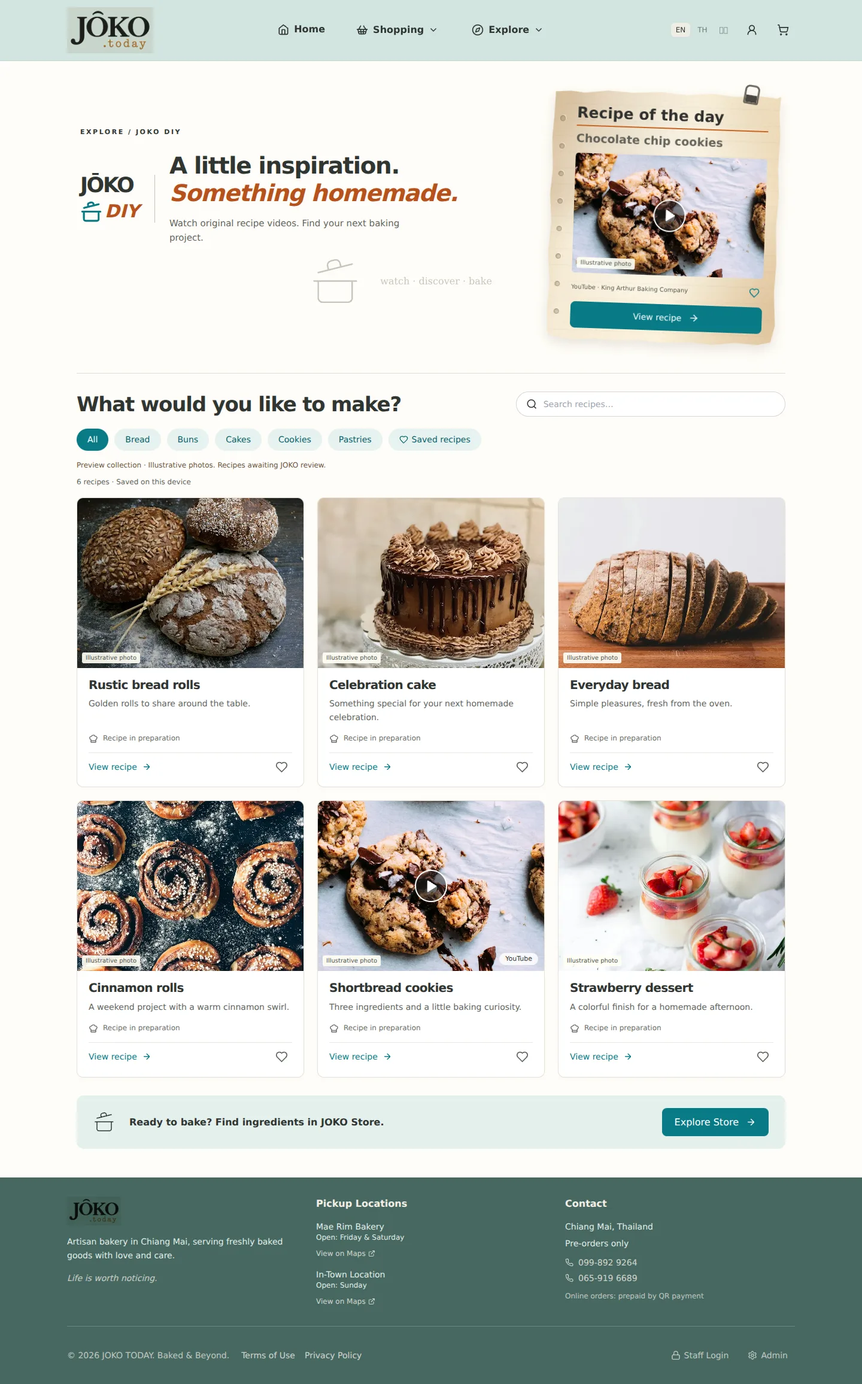
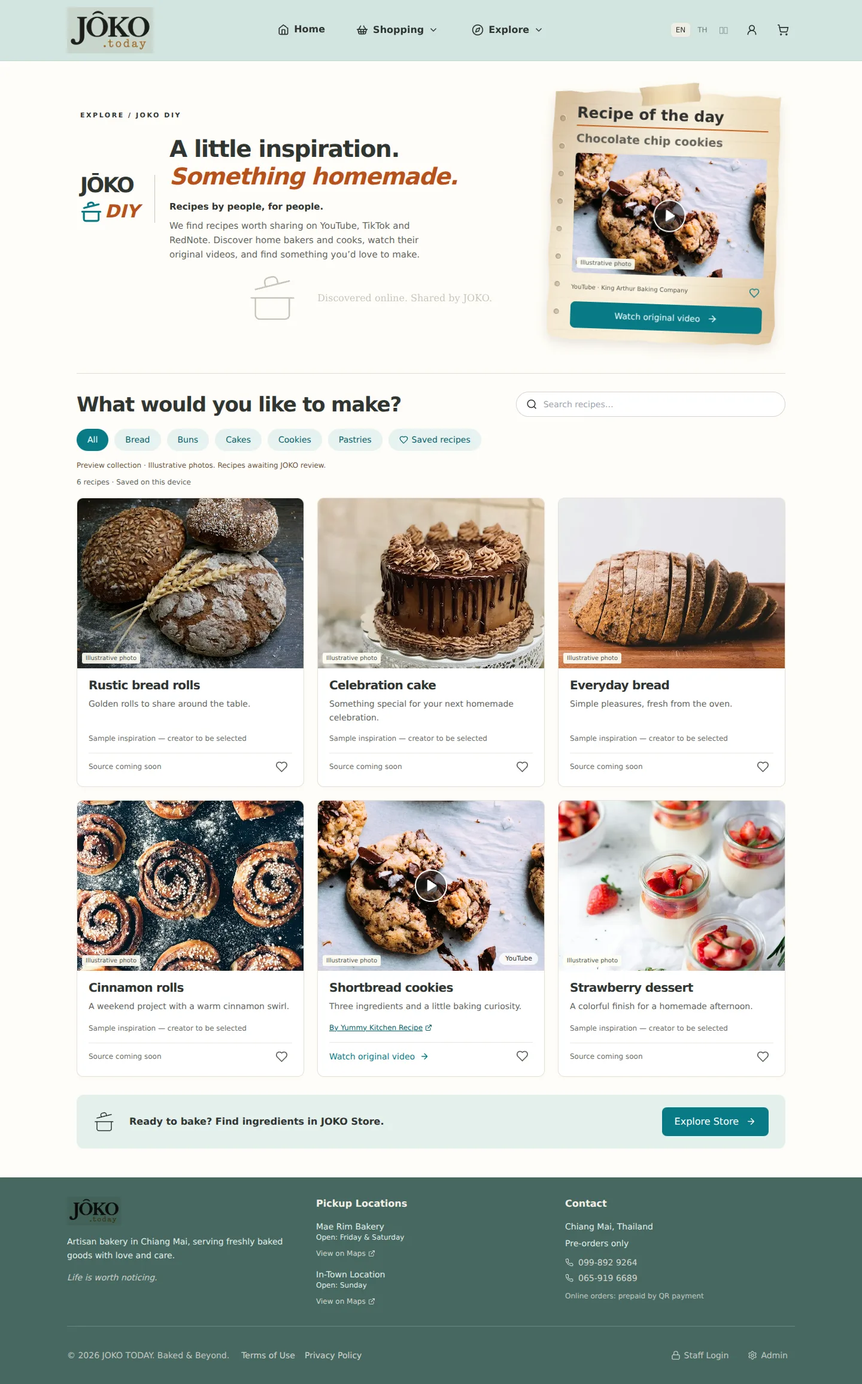
Focus DIY on creator videos and restore homepage notebook tape

diff --git a/src/app/joko-today/diy/copy.ts b/src/app/joko-today/diy/copy.ts
@@ -1,11 +1,11 @@
 export const diyCopy = {
   en: {
-    photo: 'Illustrative photo', eyebrow: 'EXPLORE / JOKO DIY', headline: 'A little inspiration.', homemade: 'Something homemade.', intro: 'Watch original recipe videos. Find your next baking project.', featured: 'Recipe of the day', browse: 'What would you like to make?', search: 'Search recipes…', all: 'All', bread: 'Bread', buns: 'Buns', cakes: 'Cakes', cookies: 'Cookies', pastries: 'Pastries', saved: 'Saved recipes', save: 'Save recipe', unsave: 'Remove saved recipe', view: 'View recipe', preview: 'Preview collection · Illustrative photos. Recipes awaiting JOKO review.', pending: 'Recipe in preparation', original: 'Watch original video', source: 'Original video', draft: 'Recipe draft', review: 'This draft has not been approved or kitchen-tested. Check the creator’s original instructions before baking.', waiting: 'We’re preparing this recipe card. Ingredients, method and timings will appear after editorial review.', ingredients: 'Ingredients', missing: 'Not specified / awaiting review', close: 'Back to recipes', empty: 'No recipes found. Try another search or category.', reset: 'Clear filters', count: 'recipes', store: 'Ready to bake? Find ingredients in JOKO Store.', storeLink: 'Explore Store', local: 'Saved on this device', storageError: 'Your browser could not save this choice. It will remain available for this visit.', english: 'Recipe preview content is currently in English.', creator: 'Creator’s original', load: 'Load original YouTube video', privacy: 'Loading the video connects to YouTube. You can also open the original directly.', time: 'Time', yield: 'Yield', method: 'Method',
+    community: 'Recipes by people, for people.', curated: 'Discovered online. Shared by JOKO.', by: 'By', sourcePending: 'Source coming soon', photo: 'Illustrative photo', eyebrow: 'EXPLORE / JOKO DIY', headline: 'A little inspiration.', homemade: 'Something homemade.', intro: 'We find recipes worth sharing on YouTube, TikTok and RedNote. Discover home bakers and cooks, watch their original videos, and find something you’d love to make.', featured: 'Recipe of the day', browse: 'What would you like to make?', search: 'Search recipes…', all: 'All', bread: 'Bread', buns: 'Buns', cakes: 'Cakes', cookies: 'Cookies', pastries: 'Pastries', saved: 'Saved recipes', save: 'Save recipe', unsave: 'Remove saved recipe', view: 'Watch original video', preview: 'Preview collection · Illustrative photos. Recipes awaiting JOKO review.', pending: 'Sample inspiration — creator to be selected', original: 'Watch original video', source: 'Original video', draft: 'Recipe draft', review: 'This draft has not been approved or kitchen-tested. Check the creator’s original instructions before baking.', waiting: 'We’re preparing this recipe card. Ingredients, method and timings will appear after editorial review.', ingredients: 'Ingredients', missing: 'Not specified / awaiting review', close: 'Back to recipes', empty: 'No recipes found. Try another search or category.', reset: 'Clear filters', count: 'recipes', store: 'Ready to bake? Find ingredients in JOKO Store.', storeLink: 'Explore Store', local: 'Saved on this device', storageError: 'Your browser could not save this choice. It will remain available for this visit.', english: 'Recipe preview content is currently in English.', creator: 'Creator’s original', load: 'Load original YouTube video', privacy: 'Loading the video connects to YouTube. You can also open the original directly.', time: 'Time', yield: 'Yield', method: 'Method',
   },
   th: {
-    photo: 'ภาพประกอบ', eyebrow: 'สำรวจ / JOKO DIY', headline: 'แรงบันดาลใจเล็ก ๆ', homemade: 'ลงมือทำเองที่บ้าน', intro: 'ชมวิดีโอสูตรต้นฉบับ แล้วค้นหาไอเดียอบขนมครั้งต่อไป', featured: 'สูตรแนะนำวันนี้', browse: 'วันนี้อยากทำอะไรดี?', search: 'ค้นหาสูตร…', all: 'ทั้งหมด', bread: 'ขนมปัง', buns: 'ขนมปังก้อน', cakes: 'เค้ก', cookies: 'คุกกี้', pastries: 'เพสตรี้', saved: 'สูตรที่บันทึก', save: 'บันทึกสูตร', unsave: 'ยกเลิกบันทึกสูตร', view: 'ดูสูตร', preview: 'คอลเลกชันตัวอย่าง · ภาพประกอบ สูตรอยู่ระหว่างตรวจทานโดย JOKO', pending: 'กำลังเตรียมสูตร', original: 'ชมวิดีโอต้นฉบับ', source: 'วิดีโอต้นฉบับ', draft: 'ฉบับร่าง', review: 'สูตรร่างนี้ยังไม่ได้รับการอนุมัติหรือทดลองทำ โปรดตรวจสอบวิธีทำต้นฉบับก่อนลงมือ', waiting: 'เรากำลังเตรียมการ์ดสูตร ส่วนผสม วิธีทำ และเวลาจะแสดงหลังตรวจทาน', ingredients: 'ส่วนผสม', missing: 'ยังไม่ระบุ / รอตรวจทาน', close: 'กลับไปดูสูตร', empty: 'ไม่พบสูตร ลองคำค้นหรือหมวดอื่น', reset: 'ล้างตัวกรอง', count: 'สูตร', store: 'พร้อมอบแล้ว? ค้นหาวัตถุดิบที่ JOKO Store', storeLink: 'ไปที่ Store', local: 'บันทึกไว้บนอุปกรณ์นี้', storageError: 'เบราว์เซอร์ไม่สามารถบันทึกได้ ตัวเลือกนี้จะใช้ได้ระหว่างการเข้าชมครั้งนี้', english: 'เนื้อหาสูตรตัวอย่างเป็นภาษาอังกฤษในขณะนี้', creator: 'ต้นฉบับของผู้สร้าง', load: 'โหลดวิดีโอ YouTube ต้นฉบับ', privacy: 'การโหลดวิดีโอจะเชื่อมต่อกับ YouTube หรือเปิดต้นฉบับโดยตรงได้', time: 'เวลา', yield: 'จำนวนที่ได้', method: 'วิธีทำ',
+    community: 'สูตรจากผู้คน แบ่งปันให้ทุกคน', curated: 'ค้นพบออนไลน์ แบ่งปันโดย JOKO', by: 'โดย', sourcePending: 'กำลังคัดเลือกต้นฉบับ', photo: 'ภาพประกอบ', eyebrow: 'สำรวจ / JOKO DIY', headline: 'แรงบันดาลใจเล็ก ๆ', homemade: 'ลงมือทำเองที่บ้าน', intro: 'เราคัดสรรสูตรน่าแบ่งปันจาก YouTube, TikTok และ RedNote มาทำความรู้จักคนทำขนมและอาหาร ชมวิดีโอต้นฉบับของพวกเขา แล้วหาเมนูที่คุณอยากลองทำ', featured: 'สูตรแนะนำวันนี้', browse: 'วันนี้อยากทำอะไรดี?', search: 'ค้นหาสูตร…', all: 'ทั้งหมด', bread: 'ขนมปัง', buns: 'ขนมปังก้อน', cakes: 'เค้ก', cookies: 'คุกกี้', pastries: 'เพสตรี้', saved: 'สูตรที่บันทึก', save: 'บันทึกสูตร', unsave: 'ยกเลิกบันทึกสูตร', view: 'ชมวิดีโอต้นฉบับ', preview: 'คอลเลกชันตัวอย่าง · ภาพประกอบ สูตรอยู่ระหว่างตรวจทานโดย JOKO', pending: 'ตัวอย่างไอเดีย — กำลังคัดเลือกผู้สร้าง', original: 'ชมวิดีโอต้นฉบับ', source: 'วิดีโอต้นฉบับ', draft: 'ฉบับร่าง', review: 'สูตรร่างนี้ยังไม่ได้รับการอนุมัติหรือทดลองทำ โปรดตรวจสอบวิธีทำต้นฉบับก่อนลงมือ', waiting: 'เรากำลังเตรียมการ์ดสูตร ส่วนผสม วิธีทำ และเวลาจะแสดงหลังตรวจทาน', ingredients: 'ส่วนผสม', missing: 'ยังไม่ระบุ / รอตรวจทาน', close: 'กลับไปดูสูตร', empty: 'ไม่พบสูตร ลองคำค้นหรือหมวดอื่น', reset: 'ล้างตัวกรอง', count: 'สูตร', store: 'พร้อมอบแล้ว? ค้นหาวัตถุดิบที่ JOKO Store', storeLink: 'ไปที่ Store', local: 'บันทึกไว้บนอุปกรณ์นี้', storageError: 'เบราว์เซอร์ไม่สามารถบันทึกได้ ตัวเลือกนี้จะใช้ได้ระหว่างการเข้าชมครั้งนี้', english: 'เนื้อหาสูตรตัวอย่างเป็นภาษาอังกฤษในขณะนี้', creator: 'ต้นฉบับของผู้สร้าง', load: 'โหลดวิดีโอ YouTube ต้นฉบับ', privacy: 'การโหลดวิดีโอจะเชื่อมต่อกับ YouTube หรือเปิดต้นฉบับโดยตรงได้', time: 'เวลา', yield: 'จำนวนที่ได้', method: 'วิธีทำ',
   },
   zh: {
-    photo: '示意图片', eyebrow: '探索 / JOKO DIY', headline: '一点灵感，', homemade: '亲手制作。', intro: '观看原创食谱视频，寻找下一次烘焙的灵感。', featured: '今日推荐食谱', browse: '今天想做什么？', search: '搜索食谱…', all: '全部', bread: '面包', buns: '小餐包', cakes: '蛋糕', cookies: '饼干', pastries: '酥点', saved: '已收藏食谱', save: '收藏食谱', unsave: '取消收藏', view: '查看食谱', preview: '预览合集 · 图片仅供示意，食谱待 JOKO 审核。', pending: '食谱准备中', original: '观看原视频', source: '原视频', draft: '食谱草稿', review: '此草稿尚未审核或试做。烘焙前请查阅创作者的原始说明。', waiting: '食谱卡正在准备中。审核后将提供配料、步骤和时间。', ingredients: '配料', missing: '未注明 / 待审核', close: '返回食谱', empty: '未找到食谱，请尝试其他关键词或分类。', reset: '清除筛选', count: '个食谱', store: '准备烘焙？到 JOKO Store 寻找原料。', storeLink: '浏览 Store', local: '保存在此设备上', storageError: '浏览器无法保存此选择，本次访问期间仍可使用。', english: '食谱预览内容目前仅提供英文。', creator: '创作者原作', load: '加载 YouTube 原视频', privacy: '加载视频会连接到 YouTube，也可直接打开原视频。', time: '时间', yield: '份量', method: '步骤',
+    community: '来自大家的食谱，分享给每个人。', curated: '发现于网络，由 JOKO 分享。', by: '创作者：', sourcePending: '原作待选', photo: '示意图片', eyebrow: '探索 / JOKO DIY', headline: '一点灵感，', homemade: '亲手制作。', intro: '我们从 YouTube、TikTok 和小红书寻找值得分享的食谱。认识热爱烘焙和烹饪的创作者，观看他们的原视频，找到你想亲手尝试的美味。', featured: '今日推荐食谱', browse: '今天想做什么？', search: '搜索食谱…', all: '全部', bread: '面包', buns: '小餐包', cakes: '蛋糕', cookies: '饼干', pastries: '酥点', saved: '已收藏食谱', save: '收藏食谱', unsave: '取消收藏', view: '观看原视频', preview: '预览合集 · 图片仅供示意，食谱待 JOKO 审核。', pending: '示例灵感 — 创作者待选', original: '观看原视频', source: '原视频', draft: '食谱草稿', review: '此草稿尚未审核或试做。烘焙前请查阅创作者的原始说明。', waiting: '食谱卡正在准备中。审核后将提供配料、步骤和时间。', ingredients: '配料', missing: '未注明 / 待审核', close: '返回食谱', empty: '未找到食谱，请尝试其他关键词或分类。', reset: '清除筛选', count: '个食谱', store: '准备烘焙？到 JOKO Store 寻找原料。', storeLink: '浏览 Store', local: '保存在此设备上', storageError: '浏览器无法保存此选择，本次访问期间仍可使用。', english: '食谱预览内容目前仅提供英文。', creator: '创作者原作', load: '加载 YouTube 原视频', privacy: '加载视频会连接到 YouTube，也可直接打开原视频。', time: '时间', yield: '份量', method: '步骤',
   },
 } as const;

diff --git a/src/app/joko-today/diy/DiyPage.tsx b/src/app/joko-today/diy/DiyPage.tsx
@@ -1,5 +1,5 @@
 import { useEffect, useRef, useState } from 'react';
-import { ArrowRight, ChefHat, CookingPot, ExternalLink, Heart, Play, Search, X } from 'lucide-react';
+import { ArrowRight, CookingPot, ExternalLink, Heart, Play, Search, X } from 'lucide-react';
 import { useLanguage } from '../../../context/LanguageContext';
 import { JokoHeroNotebookNote } from '../../../components/JokoHeroNotebookNote';
 import { diyCopy } from './copy';
@@ -15,10 +15,10 @@ function readSaved(): string[] {
   } catch { return []; }
 }
 function selectedFromUrl() {
-  return diyRecipes.find(recipe => recipe.id === new URLSearchParams(window.location.search).get('recipe')) ?? null;
+  return diyRecipes.find(recipe => recipe.source && recipe.id === new URLSearchParams(window.location.search).get('recipe')) ?? null;
 }
 
-function RecipeDetail({ recipe, onClose }: { recipe: DiyRecipe; onClose: () => void }) {
+function CreatorVideo({ recipe, onClose }: { recipe: DiyRecipe; onClose: () => void }) {
   const { language } = useLanguage();
   const text = diyCopy[language];
   const dialog = useRef<HTMLDialogElement>(null);
@@ -34,9 +34,8 @@ function RecipeDetail({ recipe, onClose }: { recipe: DiyRecipe; onClose: () => v
     onCancel={event => { event.preventDefault(); onClose(); }}>
     <div className="diy-detail__inner">
       <button type="button" className="diy-back" onClick={onClose}><X size={18} />{text.close}</button>
-      <p className="diy-eyebrow">JOKO DIY · {text.draft}</p>
+      <p className="diy-eyebrow">JOKO DIY · {text.source}</p>
       <h2 id="diy-detail-title" lang="en">{recipe.title}</h2>
-      <p className="diy-review">{text.review}</p>
       {recipe.source ? <>
         <p className="diy-source">{text.source} · <a href={recipe.source.url} target="_blank" rel="noopener noreferrer">{recipe.source.creator} <ExternalLink size={14} /></a></p>
         <div className="diy-player">{videoLoaded
@@ -44,14 +43,6 @@ function RecipeDetail({ recipe, onClose }: { recipe: DiyRecipe; onClose: () => v
           : <button type="button" onClick={() => setVideoLoaded(true)} aria-label={text.load}><img src={recipe.image} alt="" /><span className="diy-play"><Play fill="currentColor" /></span><span className="diy-player-label">{text.load}</span></button>}</div>
         <p className="diy-fine">{text.privacy} <a href={recipe.source.url} target="_blank" rel="noopener noreferrer">{text.creator} ↗</a></p>
       </> : <img className="diy-detail-photo" src={recipe.image} alt={recipe.title} />}
-      {language !== 'en' && <p className="diy-fine">{text.english}</p>}
-      <section className="diy-recipe-content">
-        <h3>{text.ingredients}</h3>
-        {recipe.ingredients ? <ul lang="en">{recipe.ingredients.map(ingredient => <li key={ingredient}><label><input type="checkbox" />{ingredient}</label></li>)}</ul> : <p>{text.waiting}</p>}
-        {recipe.sourceNote && <p className="diy-fine" lang="en">{recipe.sourceNote}</p>}
-        <dl><div><dt>{text.time}</dt><dd>{text.missing}</dd></div><div><dt>{text.yield}</dt><dd>{text.missing}</dd></div></dl>
-        <h3>{text.method}</h3><p>{text.waiting}</p>
-      </section>
     </div>
   </dialog>;
 }
@@ -73,6 +64,7 @@ export default function DiyPage({ onNavigate }: { onNavigate: (page: string) => 
     return () => { window.removeEventListener('popstate', sync); window.removeEventListener('storage', syncSaved); };
   }, []);
   function openRecipe(recipe: DiyRecipe) {
+    if (!recipe.source) return;
     const url = new URL(window.location.href);
     url.searchParams.set('recipe', recipe.id);
     window.history.pushState({ diyRecipe: true }, '', `${url.pathname}${url.search}${url.hash}`);
@@ -102,14 +94,14 @@ export default function DiyPage({ onNavigate }: { onNavigate: (page: string) => 
         <div className="diy-intro">
           <p className="diy-eyebrow">{text.eyebrow}</p>
           <div className="diy-intro-line"><div className="diy-wordmark" aria-label="JOKO DIY"><span>JŌKO</span><span><CookingPot aria-hidden="true" /> DIY</span></div>
-          <div><h1 id="diy-title">{text.headline}<br /><em>{text.homemade}</em></h1><p>{text.intro}</p></div></div>
-          <div className="diy-hero-flourish" aria-hidden="true"><CookingPot strokeWidth={0.7} /><span>watch · discover · bake</span></div>
+          <div><h1 id="diy-title">{text.headline}<br /><em>{text.homemade}</em></h1><p className="diy-community-tagline">{text.community}</p><p>{text.intro}</p></div></div>
+          <div className="diy-hero-flourish" aria-hidden="true"><CookingPot strokeWidth={0.7} /><span>{text.curated}</span></div>
         </div>
         <aside className="diy-feature" aria-label={text.featured}>
           <JokoHeroNotebookNote title={text.featured} body={featured.title} rotation={2}>
             <button className="diy-feature-photo" type="button" onClick={() => openRecipe(featured)} aria-label={`${text.view}: ${featured.title}`}><img src={featured.image} alt={featured.title} fetchPriority="high" /><span className="diy-play"><Play fill="currentColor" /></span><span className="diy-photo-label">{text.photo}</span></button>
-            <div className="diy-feature-credit"><span>YouTube · {featured.source?.creator}</span><button type="button" className="diy-feature-save" aria-pressed={saved.includes(featured.id)} aria-label={`${saved.includes(featured.id) ? text.unsave : text.save}: ${featured.title}`} onClick={() => toggleSaved(featured.id)}><Heart size={18} fill={saved.includes(featured.id) ? 'currentColor' : 'none'} /></button></div>
-            <button className="diy-button" type="button" onClick={() => openRecipe(featured)}>{text.view}<ArrowRight size={17} /></button>
+            <div className="diy-feature-credit"><span>{featured.source?.platform} · {featured.source?.creator}</span><button type="button" className="diy-feature-save" aria-pressed={saved.includes(featured.id)} aria-label={`${saved.includes(featured.id) ? text.unsave : text.save}: ${featured.title}`} onClick={() => toggleSaved(featured.id)}><Heart size={18} fill={saved.includes(featured.id) ? 'currentColor' : 'none'} /></button></div>
+            <button className="diy-button" type="button" onClick={() => openRecipe(featured)}>{text.original}<ArrowRight size={17} /></button>
           </JokoHeroNotebookNote>
         </aside>
       </section>
@@ -119,13 +111,13 @@ export default function DiyPage({ onNavigate }: { onNavigate: (page: string) => 
         <p className="diy-preview">{text.preview} {language !== 'en' && text.english}</p>
         <p className="diy-fine" role="status">{visible.length} {text.count} · {storageError ? text.storageError : text.local}</p>
         <div className="diy-grid">{visible.map(recipe => <article key={recipe.id} className="diy-card">
-          <button type="button" className="diy-card-photo" onClick={() => openRecipe(recipe)} aria-label={`${text.view}: ${recipe.title}`}><img src={recipe.image} alt={recipe.title} loading="lazy" width="800" height="600" /><span className="diy-photo-label">{text.photo}</span>{recipe.source && <><span className="diy-play"><Play fill="currentColor" /></span><span className="diy-platform">YouTube</span></>}</button>
-          <div className="diy-card-body"><h3 lang="en"><button type="button" onClick={() => openRecipe(recipe)}>{recipe.title}</button></h3><p lang="en">{recipe.description}</p><div className="diy-card-meta"><ChefHat size={16} />{text.pending}</div><div className="diy-card-actions"><button type="button" onClick={() => openRecipe(recipe)}>{text.view}<ArrowRight size={16} /></button><button type="button" className="diy-heart" aria-pressed={saved.includes(recipe.id)} aria-label={`${saved.includes(recipe.id) ? text.unsave : text.save}: ${recipe.title}`} onClick={() => toggleSaved(recipe.id)}><Heart size={21} fill={saved.includes(recipe.id) ? 'currentColor' : 'none'} /></button></div></div>
+          <button type="button" className="diy-card-photo" disabled={!recipe.source} onClick={() => openRecipe(recipe)} aria-label={`${text.view}: ${recipe.title}`}><img src={recipe.image} alt={recipe.title} loading="lazy" width="800" height="600" /><span className="diy-photo-label">{text.photo}</span>{recipe.source && <><span className="diy-play"><Play fill="currentColor" /></span><span className="diy-platform">{recipe.source.platform}</span></>}</button>
+          <div className="diy-card-body"><h3 lang="en"><button type="button" disabled={!recipe.source} onClick={() => openRecipe(recipe)}>{recipe.title}</button></h3><p lang="en">{recipe.description}</p><div className="diy-card-meta">{recipe.source ? <a href={recipe.source.url} target="_blank" rel="noopener noreferrer">{text.by} {recipe.source.creator} <ExternalLink size={12} /></a> : text.pending}</div><div className="diy-card-actions">{recipe.source ? <button type="button" onClick={() => openRecipe(recipe)}>{text.original}<ArrowRight size={16} /></button> : <span className="diy-pending">{text.sourcePending}</span>}<button type="button" className="diy-heart" aria-pressed={saved.includes(recipe.id)} aria-label={`${saved.includes(recipe.id) ? text.unsave : text.save}: ${recipe.title}`} onClick={() => toggleSaved(recipe.id)}><Heart size={21} fill={saved.includes(recipe.id) ? 'currentColor' : 'none'} /></button></div></div>
         </article>)}</div>
         {!visible.length && <div className="diy-empty"><p>{text.empty}</p><button className="diy-button" type="button" onClick={() => { setQuery(''); setCategory('all'); setSavedOnly(false); }}>{text.reset}</button></div>}
       </section>
       <aside className="diy-store"><CookingPot size={36} strokeWidth={1} aria-hidden="true" /><p>{text.store}</p><button className="diy-button" type="button" onClick={() => onNavigate('products-non-bakery')}>{text.storeLink}<ArrowRight size={17} /></button></aside>
     </div>
-    {selected && <RecipeDetail key={selected.id} recipe={selected} onClose={closeRecipe} />}
+    {selected && <CreatorVideo key={selected.id} recipe={selected} onClose={closeRecipe} />}
   </div>;
 }

diff --git a/src/app/joko-today/diy/diy.css b/src/app/joko-today/diy/diy.css
@@ -22,8 +22,6 @@
 .diy-feature .joko-hero-note { padding: 27px 23px 23px 42px; filter: drop-shadow(0 8px 10px #55452c25); }
 .diy-feature .joko-hero-note__content > p:first-child { font-family: 'Itim', 'Noto Sans Thai Looped', 'Noto Sans SC', sans-serif !important; font-size: 25px !important; border-bottom: 2px solid #c76624; padding-bottom: 7px; }
 .diy-feature .joko-hero-note__content > p:nth-child(2) { font: 600 19px/1.3 'Inter', 'Noto Sans Thai Looped', sans-serif !important; margin-bottom: 12px; }
-.diy-feature .joko-hero-note__tape { display: none; }
-.diy-feature .joko-hero-note::after { content: ''; position: absolute; z-index: 6; top: -15px; right: 40px; width: 25px; height: 32px; border: 3px solid #6b665d; border-radius: 8px 8px 3px 3px; box-shadow: inset 0 -12px #49463f; transform: rotate(8deg); }
 .diy-feature-photo { display: block; position: relative; width: 100%; padding: 0; border: 0; border-radius: 5px; overflow: hidden; }
 .diy-feature-photo img { display: block; aspect-ratio: 16/10; object-fit: cover; width: 100%; }
 .diy-play { position: absolute; display: grid; place-items: center; left: 50%; top: 50%; transform: translate(-50%,-50%); width: 54px; height: 54px; background: #2228; color: white; border: 2px solid white; border-radius: 50%; }
@@ -66,7 +64,6 @@
 .diy-detail__inner { padding: clamp(20px,4vw,42px); }
 .diy-back { display: inline-flex; align-items: center; gap: 8px; border: 0; background: none; color: var(--diy-teal); padding: 8px 0; margin-bottom: 20px; }
 .joko-home-shell .diy-detail h2 { font: 650 clamp(27px,4vw,37px)/1.2 'Inter', sans-serif; margin: 12px 0; }
-.diy-review { background: #fbefdb; padding: 12px 16px; border-radius: 8px; font-size: 13px; margin: 15px 0; }
 .diy-source { font-size: 13px; margin-bottom: 15px; }
 .diy-source a { color: var(--diy-teal); display: inline-flex; align-items: center; gap: 4px; text-decoration: underline; }
 .diy-player { aspect-ratio: 16/9; background: #233a37; position: relative; overflow: hidden; border-radius: 8px; }
@@ -76,12 +73,6 @@
 .diy-player-label { position: absolute; bottom: 16px; left: 0; right: 0; color: white; font-size: 14px; }
 .diy-detail-photo { max-height: 280px; object-fit: cover; width: 100%; border-radius: 8px; }
 .diy-detail .diy-fine a { color: var(--diy-teal); text-decoration: underline; }
-.diy-recipe-content h3 { font-size: 21px; margin: 24px 0 12px; }
-.diy-recipe-content li { padding: 10px 0; border-bottom: 1px solid #e9e4d9; list-style: none; }
-.diy-recipe-content label { display: flex; gap: 10px; align-items: center; }
-.diy-recipe-content input { accent-color: var(--diy-teal); width: 18px; height: 18px; }
-.diy-recipe-content dl { display: flex; flex-wrap: wrap; gap: 25px; margin-top: 25px; font-size: 14px; }
-.diy-recipe-content dt { font-weight: 600; }
 @media(max-width:1000px) { .diy-hero { gap: 25px; grid-template-columns: 1.25fr 1fr; } .diy-intro-line { display: block; } .diy-wordmark { border: 0; margin: 0 0 20px; padding: 0; } .diy-wordmark > span { display: inline-flex !important; margin: 0 8px 0 0 !important; } .diy-hero-flourish { display: none; } }
 @media(max-width:760px) { .diy-wrap { padding: 0 18px 30px; } .diy-hero { grid-template-columns: 1fr; padding: 30px 0 35px; gap: 35px; } .diy-intro-line { display: flex; } .diy-wordmark { display: none; } .diy-feature { justify-self: center; max-width: 390px; padding: 0 7px; } .diy-catalog-heading { flex-direction: column; align-items: stretch; gap: 16px; } .diy-search { width: 100%; } .diy-grid { grid-template-columns: repeat(2,minmax(0,1fr)); gap: 14px; } .diy-card-body { padding: 13px; } .diy-store { flex-wrap: wrap; gap: 12px; padding: 20px; } .diy-store > svg { display: none; } .diy-store .diy-button { width: 100%; } }
 @media(max-width:460px) { .diy-grid { grid-template-columns: 1fr; } .diy-filters { gap: 7px; } .diy-filters button { padding: 6px 13px; } .diy-eyebrow { margin-bottom: 17px; } }
@@ -91,3 +82,10 @@
 .diy-feature-save { background: none; border: 0; padding: 5px; color: var(--diy-teal); }
 
 .diy-photo-label { position: absolute; left: 8px; bottom: 8px; background: #fffef4eb; color: #4e554e; font-size: 10px; padding: 1px 6px; border-radius: 3px; }
+
+.diy-intro-line .diy-community-tagline { font-weight: 650; color: #303532; margin: 14px 0 8px; }
+.diy-intro-line p { max-width: 440px; }
+.diy-card-photo:disabled, .diy-card h3 button:disabled { cursor: default; }
+.diy-card-photo:disabled:hover img { transform: none; }
+.diy-card-meta a { display: inline-flex; align-items: center; gap: 4px; color: #075f68; text-decoration: underline; }
+.diy-pending { font-size: 12px; color: #696d66; }

diff --git a/src/app/joko-today/diy/recipes.ts b/src/app/joko-today/diy/recipes.ts
@@ -10,17 +10,15 @@ export interface DiyRecipe {
   category: RecipeCategory;
   image: string;
   reviewStatus: 'preview';
-  source?: { creator: string; url: string; youtubeId: string };
-  ingredients?: string[];
-  sourceNote?: string;
+  source?: { creator: string; platform: 'YouTube'; url: string; youtubeId: string };
 }
 export const diyRecipes: DiyRecipe[] = [
-  { id: 'chocolate-chip-cookies', title: 'Chocolate chip cookies', description: 'A little chocolate. A good afternoon baking project.', category: 'cookies', image: '/assets/diy/cookies.webp', reviewStatus: 'preview', source: { creator: 'King Arthur Baking Company', url: 'https://www.youtube.com/watch?v=Ka3n5qB2JrE', youtubeId: 'Ka3n5qB2JrE' } },
+  { id: 'chocolate-chip-cookies', title: 'Chocolate chip cookies', description: 'A little chocolate. A good afternoon baking project.', category: 'cookies', image: '/assets/diy/cookies.webp', reviewStatus: 'preview', source: { platform: 'YouTube', creator: 'King Arthur Baking Company', url: 'https://www.youtube.com/watch?v=Ka3n5qB2JrE', youtubeId: 'Ka3n5qB2JrE' } },
   { id: 'soft-milk-buns', title: 'Rustic bread rolls', description: 'Golden rolls to share around the table.', category: 'buns', image: '/assets/diy/buns.webp', reviewStatus: 'preview' },
   { id: 'celebration-cake', title: 'Celebration cake', description: 'Something special for your next homemade celebration.', category: 'cakes', image: '/assets/diy/cake.webp', reviewStatus: 'preview' },
   { id: 'everyday-bread', title: 'Everyday bread', description: 'Simple pleasures, fresh from the oven.', category: 'bread', image: '/assets/diy/bread.webp', reviewStatus: 'preview' },
   { id: 'cinnamon-rolls', title: 'Cinnamon rolls', description: 'A weekend project with a warm cinnamon swirl.', category: 'pastries', image: '/assets/diy/cinnamon-rolls.webp', reviewStatus: 'preview' },
-  { id: 'shortbread-cookies', title: 'Shortbread cookies', description: 'Three ingredients and a little baking curiosity.', category: 'cookies', image: '/assets/diy/cookies.webp', reviewStatus: 'preview', source: { creator: 'Yummy Kitchen Recipe', url: 'https://www.youtube.com/watch?v=te2hbuewsEM', youtubeId: 'te2hbuewsEM' }, ingredients: ['Butter — 1 cup / 16 tbsp / 230 g', 'Powdered sugar — ½ cup / 50 g', 'All-purpose flour — 2 cups / 250 g'], sourceNote: 'Ingredient wording and quantities checked against the creator’s written video description. The video, complete method, yield and translations still require editorial review.' },
+  { id: 'shortbread-cookies', title: 'Shortbread cookies', description: 'Three ingredients and a little baking curiosity.', category: 'cookies', image: '/assets/diy/cookies.webp', reviewStatus: 'preview', source: { platform: 'YouTube', creator: 'Yummy Kitchen Recipe', url: 'https://www.youtube.com/watch?v=te2hbuewsEM', youtubeId: 'te2hbuewsEM' } },
   { id: 'strawberry-dessert', title: 'Strawberry dessert', description: 'A colorful finish for a homemade afternoon.', category: 'pastries', image: '/assets/diy/tart.webp', reviewStatus: 'preview' },
 ];
 export function filterDiyRecipes(recipes: DiyRecipe[], query: string, category: string, savedOnly: boolean, saved: string[]) {

diff --git a/docs/diy/FRONTEND_V1.md b/docs/diy/FRONTEND_V1.md
@@ -1,45 +1,39 @@
-# JOKO DIY frontend v1 — editorial preview
+# JOKO DIY frontend v1 — creator discovery page
 
-Route: `/diy`. Built on the approved photo catalog and clipped notebook concept (2026-10-21). This is a frontend foundation, not the completed publishing system.
+Route: `/diy`. Photo-led recipe discovery with a taped notebook feature. This branch is an editorial preview for page review.
 
-## Included
+## Current scope
 
-- Shared JOKO shell: sticky mineral-turquoise navigation and existing account/cart controls.
-- Scoped Inter headings/body and orange italic headline; existing Itim notebook font. No global homepage font changes or added dependencies. A raster mockup does not identify an exact font.
-- Reuses the existing notebook paper component with an optional children slot. Existing notes retain their content and behavior.
-- Responsive photo cards; keyword/category filters, empty state, browser-local saved recipes.
-- Native accessible modal: deep links `/diy?recipe=shortbread-cookies`, browser Back, Escape, focus containment/return, scroll lock.
-- Original source credit and URL; YouTube iframe loads only after user action, using youtube-nocookie. Playback is subject to creator/platform availability.
-- EN/TH/ZH interface copy. Editorial fixture titles/descriptions are English, disclosed for other languages.
-- Store crosslink uses the existing non-bakery catalog navigation; no cart or payment changes.
+- Shared sticky turquoise JOKO header and existing navigation/account/cart controls.
+- Scoped sans-serif typography and orange italic headline; existing notebook paper and translucent tape, matching the homepage note. No global typography changes.
+- “Recipes by people, for people.” Intro explains that JOKO discovers and shares original creator recipes from YouTube, TikTok and RedNote.
+- Responsive photographic catalog tiles, search, categories and browser-local saved recipes.
+- Source creator and platform stay visible. Two sample entries have original YouTube links and a click-to-load video viewer with direct creator link. No iframe is loaded before user action.
+- Five illustrative sample tiles have no selected source yet, say so clearly and do not open a fabricated recipe/video.
+- EN/TH/ZH interface and positioning copy; placeholder titles/descriptions remain English with a disclosure.
+- Separate Store crosslink uses the existing non-bakery catalog navigation.
 
-## Content boundaries
+Detailed recipe cards, ingredients/method layouts, timings and yields are deferred for a later design phase. The video viewer contains only the original video and source attribution. TikTok/RedNote import and embedding are not implemented yet.
 
-The collection is visibly labelled preview. All cards use visibly labelled illustrative local stock photos. Video thumbnails could not be loaded in this environment, so the layout uses local placeholders without broken external images. Replace placeholders with recipe-specific approved photos before publication. Original creator video URLs and credits remain independent. The text DIY wordmark is a placeholder pending the approved transparent logo. Five cards lack selected sources and explicitly show a pending state, without misleading video play controls. The notebook feature and shortbread card retain actual creator video URLs. Three shortbread ingredients were checked against the creator's written description in the supplied comparison report; the remaining method, timings, yield, translations and video still need review. Unknown quantities/times are never guessed.
+## Preview content
 
-Content is isolated in `src/app/joko-today/diy/recipes.ts`. It does not read/write recipe data in Supabase. No admin, ingestion automation, AI API, translation service, account-synced likes, kitchen-tested claims or purchase-ingredient mapping is implemented.
+All stock photos are visibly labelled illustrative. Replace them with approved recipe-specific photography before launch; the shortbread placeholder is a generic cookie photo. Source URLs and creator identities remain independent of placeholder imagery. The text DIY wordmark awaits the approved transparent logo.
 
-## Next slice
-
-1. Review the actual rendered UI against the approved mockup on desktop/mobile.
-2. Supply the approved transparent DIY logo and editorial photos/permissions.
-3. Approve the first complete source-faithful recipe card.
-4. Design the admin draft/publish workflow and storage schema separately, retaining creator identity, original URLs and field-level unknowns.
-5. Add reviewed source languages and Store ingredient mappings, then evaluate extraction automation against this stable recipe contract.
-
-Do not publish this preview collection as approved editorial content. No migrations or production changes are part of this branch.
+The page does not read/write recipes in Supabase. No publishing admin, AI ingestion, translated recipe content, account-synced likes or ingredient-to-product mapping is included. No production data, payment, auth, infrastructure, dependency or schema changes.
 
 ## Validation — 2026-10-21
 
-- TypeScript typecheck, scoped ESLint, production build, Tailwind compatibility audit, static-asset audit and whitespace/diff checks passed.
-- Chromium/Playwright at 1440×1100 and 390×844: 6 initial cards; Bread filter narrows to 1; unmatched search shows empty state; reset restores collection; saved-only narrows to 1; local save survives reload.
-- Source card opens with a query-string deep link and three ingredient checkboxes. Escape restores `/diy`; direct-link close also restores `/diy`.
-- Header bounding top remains 0 after scrolling; no mobile horizontal overflow.
-- No iframe exists before the load action. Clicking creates the expected youtube-nocookie embed URL. Actual provider playback was not tested: embed network responses were stubbed.
-- Thai/Chinese language preference reloads render the corresponding interface language. No page-level JavaScript errors observed.
-- All Supabase traffic was stubbed for local UI verification. Screenshots therefore show fallback shell branding, not a verification of current published admin branding or production data.
+- TypeScript, scoped ESLint, production build and diff checks passed. Existing large-chunk warning remains.
+- Chromium at desktop 1440×1100 and mobile 390×844: search, category filters, empty/reset state and save persistence passed.
+- Original-video query-string links, Escape/Back/direct-link close, sticky header (top 0 after scrolling) and no mobile horizontal overflow verified.
+- Shared tape computes to `display: block`; the metal-clip pseudo-element is absent.
+- Source creator credit appears in the catalog. No ingredient/method card is rendered in the viewer.
+- EN/TH/ZH interface renders; no page JavaScript errors observed.
+- Backend and iframe responses were stubbed for local UI tests. Actual platform playback and production branding are not claimed verified. Screenshots use fallback shell branding.
 
-### Rendered previews
+## Next
+
+Approve the DIY discovery page, provide the approved logo and select the first properly credited source collection. Design standardized recipe cards separately afterward.
 
 ![Desktop implementation](preview-desktop.webp)
 
